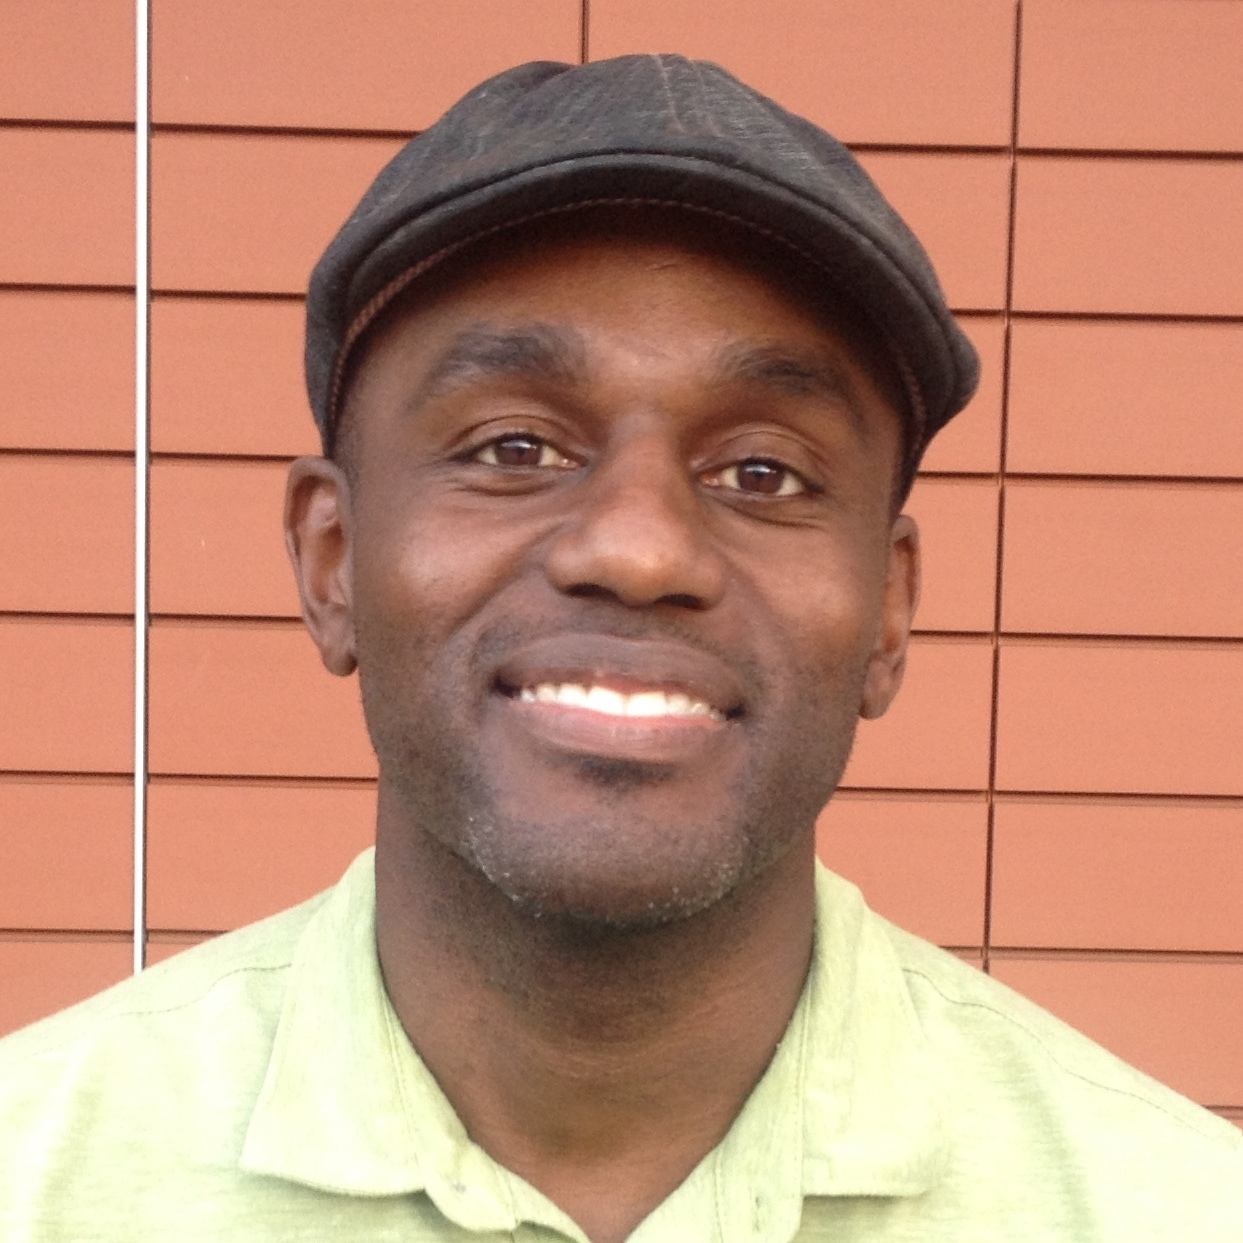
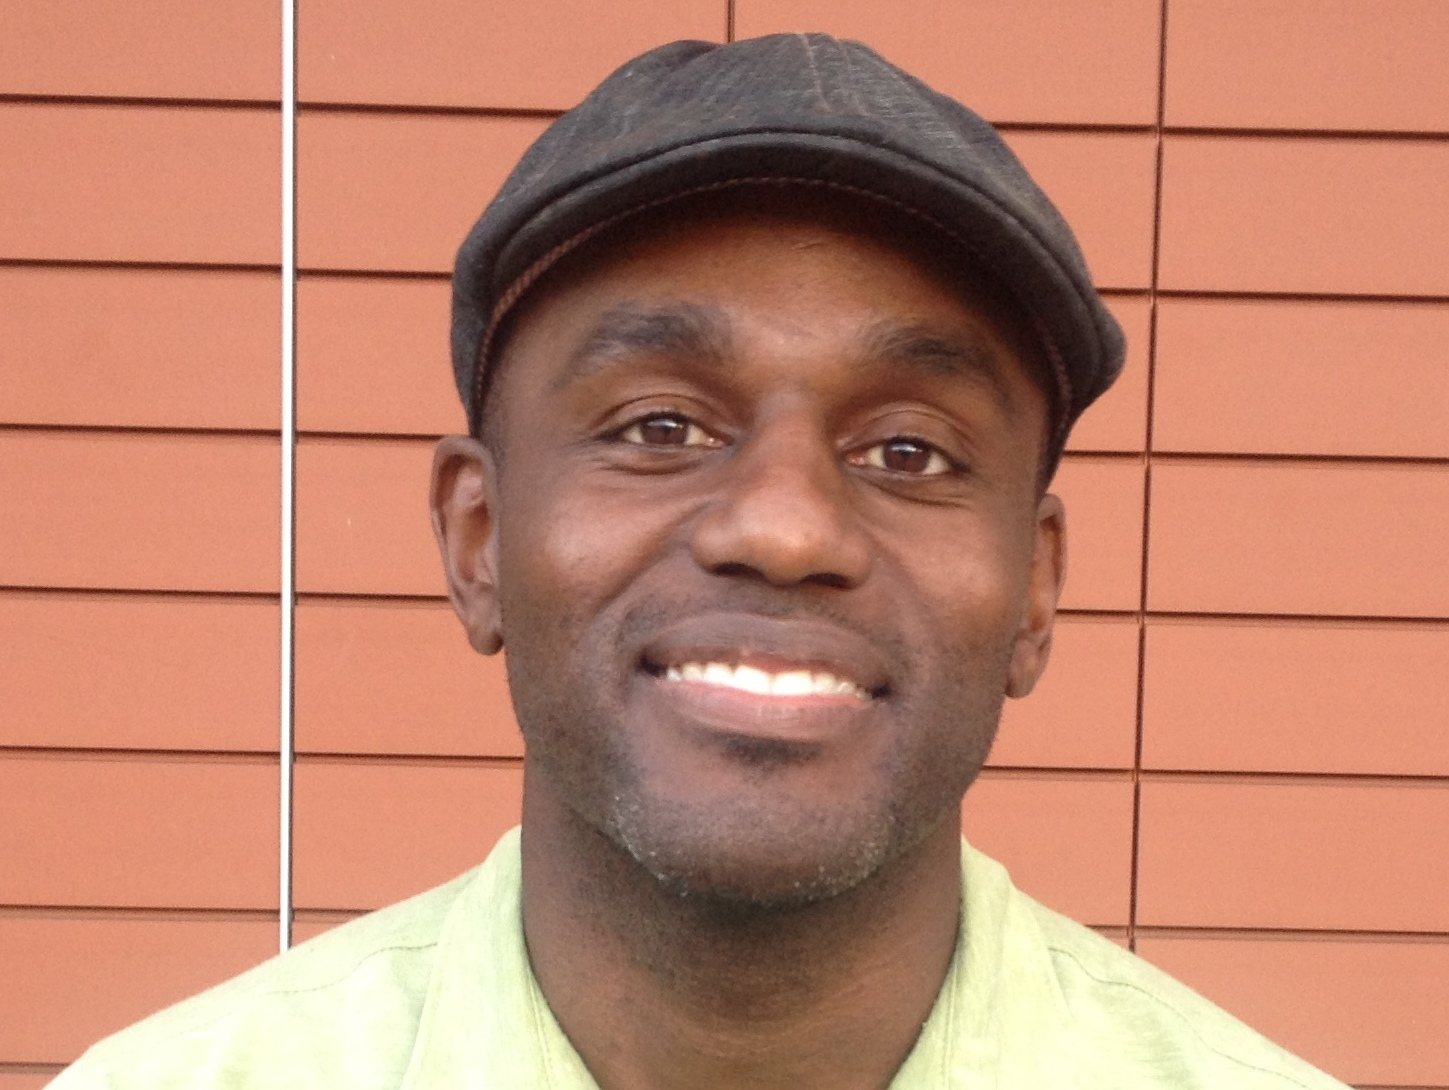
added new bio pic, fixed margins on links in navbar and adjusted type on portfolio images

diff --git a/index.html b/index.html
@@ -25,7 +25,7 @@
                 </div>
 
                 <div>
-                    <ul class="navbar-nav d-flex flex-row">
+                    <ul class="navbar-nav d-flex flex-row mr-5">
                       <li class="nav-item active">
                         <a class="nav-link p-3" href="./index.html">About <span class="sr-only">(current)</span></a>
                       </li>
@@ -74,9 +74,9 @@
                             <h2 class="card-title pl-4">About Me</h2>
                             <hr>
                                 <div class="row">
-                                    <div class="col-12 pr-3">
-                                        <div class="col-lg-12 px-4">
-                                            <img src="./assets/images/pic01.jpeg" id="bio-image" class="img-fluid float-left pl-0 pb-2 mt-2 mr-4" alt="">
+                                    <div class="col-md-12 pr-3">
+                                        <div class="col-md-12 px-4">
+                                            <img src="./assets/images/pic01.jpeg" id="bio-image" class="img-fluid float-left pl-0 pb-2 mt-2 mr-5" alt="">
                                             <p class="bio">
                                                 Lorem ipsum dolor sit, amet consectetur adipisicing elit. Ratione minima pariatur earum quidem veniam porro iure? Ducimus saepe exercitationem iure!  Lorem ipsum dolor sit amet consectetur adipisicing elit. Impedit suscipit nihil reprehenderit quasi cupiditate voluptatem sapiente consequuntur deleniti obcaecati magnam commodi, natus nulla, culpa eligendi iusto pariatur quibusdam placeat ducimus neque, fugiat cumque illum sequi. Aperiam quidem rem sed praesentium est, neque vel dignissimos ab fuga magni officiis repudiandae ut? Lorem ipsum dolor sit, amet consectetur adipisicing elit. Ratione minima pariatur earum quidem veniam porro iure? Ducimus saepe exercitationem iure!  Lorem ipsum dolor sit amet consectetur adipisicing elit. Impedit suscipit nihil reprehenderit quasi cupiditate voluptatem sapiente consequuntur deleniti obcaecati magnam commodi, natus nulla, culpa eligendi iusto pariatur quibusdam placeat ducimus neque, fugiat cumque illum sequi. Aperiam quidem rem sed praesentium est, neque vel dignissimos ab fuga magni officiis repudiandae ut?  Lorem ipsum dolor sit, amet consectetur adipisicing elit. Ratione minima pariatur earum quidem veniam porro iure? Ducimus saepe exercitationem iure!  Lorem ipsum dolor sit amet consectetur adipisicing elit. Impedit suscipit nihil reprehenderit quasi cupiditate voluptatem sapiente consequuntur deleniti obcaecati magnam commodi, natus nulla, culpa eligendi iusto pariatur quibusdam placeat ducimus neque, fugiat cumque illum sequi. Aperiam quidem rem sed praesentium est, neque vel dignissimos ab fuga magni officiis repudiandae ut? Lorem ipsum dolor sit, amet consectetur adipisicing elit. Ratione minima pariatur earum quidem veniam porro iure? Ducimus saepe exercitationem iure!  Lorem ipsum dolor sit amet consectetur adipisicing elit. Impedit suscipit nihil reprehenderit quasi cupiditate voluptatem sapiente consequuntur deleniti obcaecati magnam commodi, natus nulla, culpa eligendi iusto pariatur quibusdam placeat ducimus neque, fugiat cumque illum sequi. Aperiam quidem rem sed praesentium est, neque vel dignissimos ab fuga magni officiis repudiandae ut?
                                             </p>

diff --git a/portfolio.html b/portfolio.html
@@ -24,7 +24,7 @@
                 </div>
 
                 <div>
-                    <ul class="navbar-nav d-flex flex-row">
+                    <ul class="navbar-nav d-flex flex-row mr-5">
                       <li class="nav-item">
                         <a class="nav-link p-3" href="./index.html">About</a>
                       </li>
@@ -54,12 +54,12 @@
                                 <div class="row ml-1">
                                     <div class="col-md-6 mb-5 photoPort">
                                         <img class="img-fluid"  id="port" src="./assets/images/guess.jpg" alt="">
-                                        <p class="caption text-center">Word Guess</p>
+                                        <p class="caption h4 text-center">Word Guess</p>
                                     </div>
 
                                     <div class="col-md-6 mb-5 photoPort">
                                         <img class="img-fluid"  id="port" src="./assets/images/rpg.jpg" alt="">
-                                        <p class="caption text-center">RPG Game</p>
+                                        <p class="caption h4 text-center">RPG Game</p>
                                     </div>
                             
                                 </div>
@@ -67,12 +67,12 @@
                                 <div class="row ml-1">
                                     <div class="col-md-6 mb-5 photoPort">
                                         <img class="img-fluid"  id="port" src="./assets/images/trivia.jpg" alt=""> 
-                                        <p class="caption text-center">Trivia Game</p>     
+                                        <p class="caption h4 text-center">Trivia Game</p>     
                                     </div>
 
                                     <div class="col-md-6 mb-5 photoPort">
                                         <img class="img-fluid"  id="port" src="./assets/images/info.jpg" alt="">
-                                        <p class="caption text-center">Info Widget</p> 
+                                        <p class="caption h4 text-center">Info Widget</p> 
                                     </div>
                             
                                 </div>
@@ -80,7 +80,7 @@
                                 <div class="row ml-1">
                                     <div class="col-md-6 mb-5 photoPort">
                                         <img class="img-fluid"  id="port" src="./assets/images/roshambo.jpg" alt="">
-                                        <p class="caption text-center">Rock Paper Scissors</p>      
+                                        <p class="caption h4 text-center">Rock Paper Scissors</p>      
                                     </div>
 
                                     <div class="col-md-6">

diff --git a/assets/style.css b/assets/style.css
@@ -8,6 +8,10 @@ body {
     width: 400px;
 }
 
+.bio {
+    line-height: 35px;
+}
+
 #port {
     margin-bottom: 25px;
     /* padding-left: 15px; */
@@ -22,10 +26,10 @@ body {
     position: absolute;
     width: 300px;
     height: 60px;
-    background-color: rgb(0, 145, 189);
+    background-color: rgb(61, 177, 198);
     z-index: 2;
     top: 60%;
-    padding-top: 20px;
+    padding-top: 15px;
     color: rgb(255, 255, 255);
 }
   

diff --git a/contact.html b/contact.html
@@ -24,7 +24,7 @@
                 </div>
 
                 <div>
-                    <ul class="navbar-nav d-flex flex-row">
+                    <ul class="navbar-nav d-flex flex-row mr-5">
                       <li class="nav-item">
                         <a class="nav-link p-3" href="./index.html">About</a>
                       </li>
